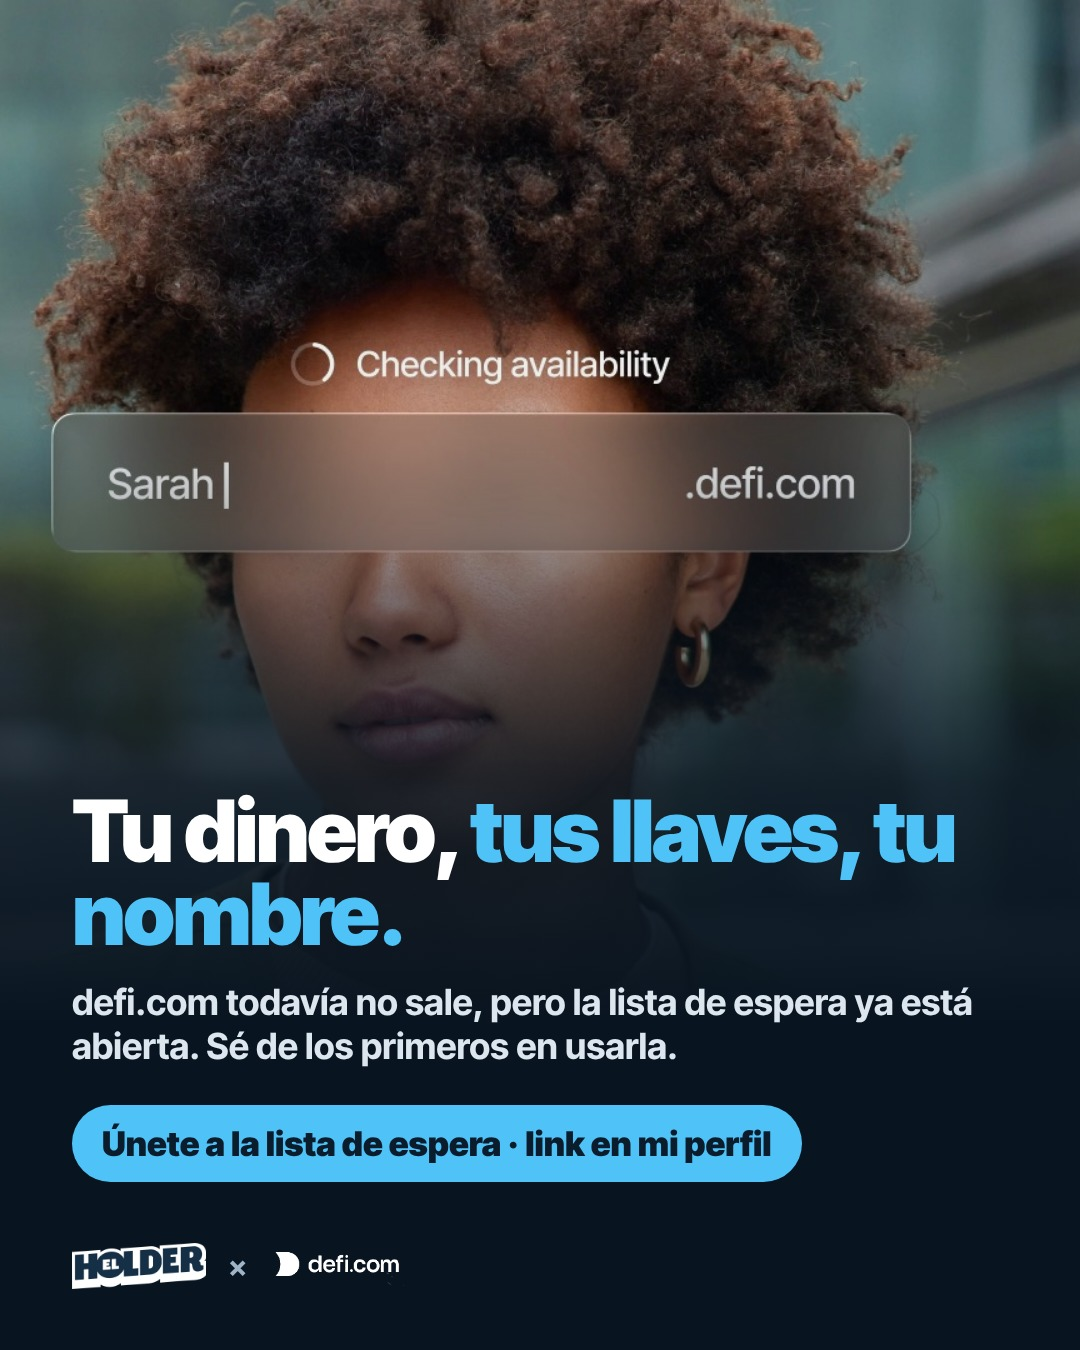
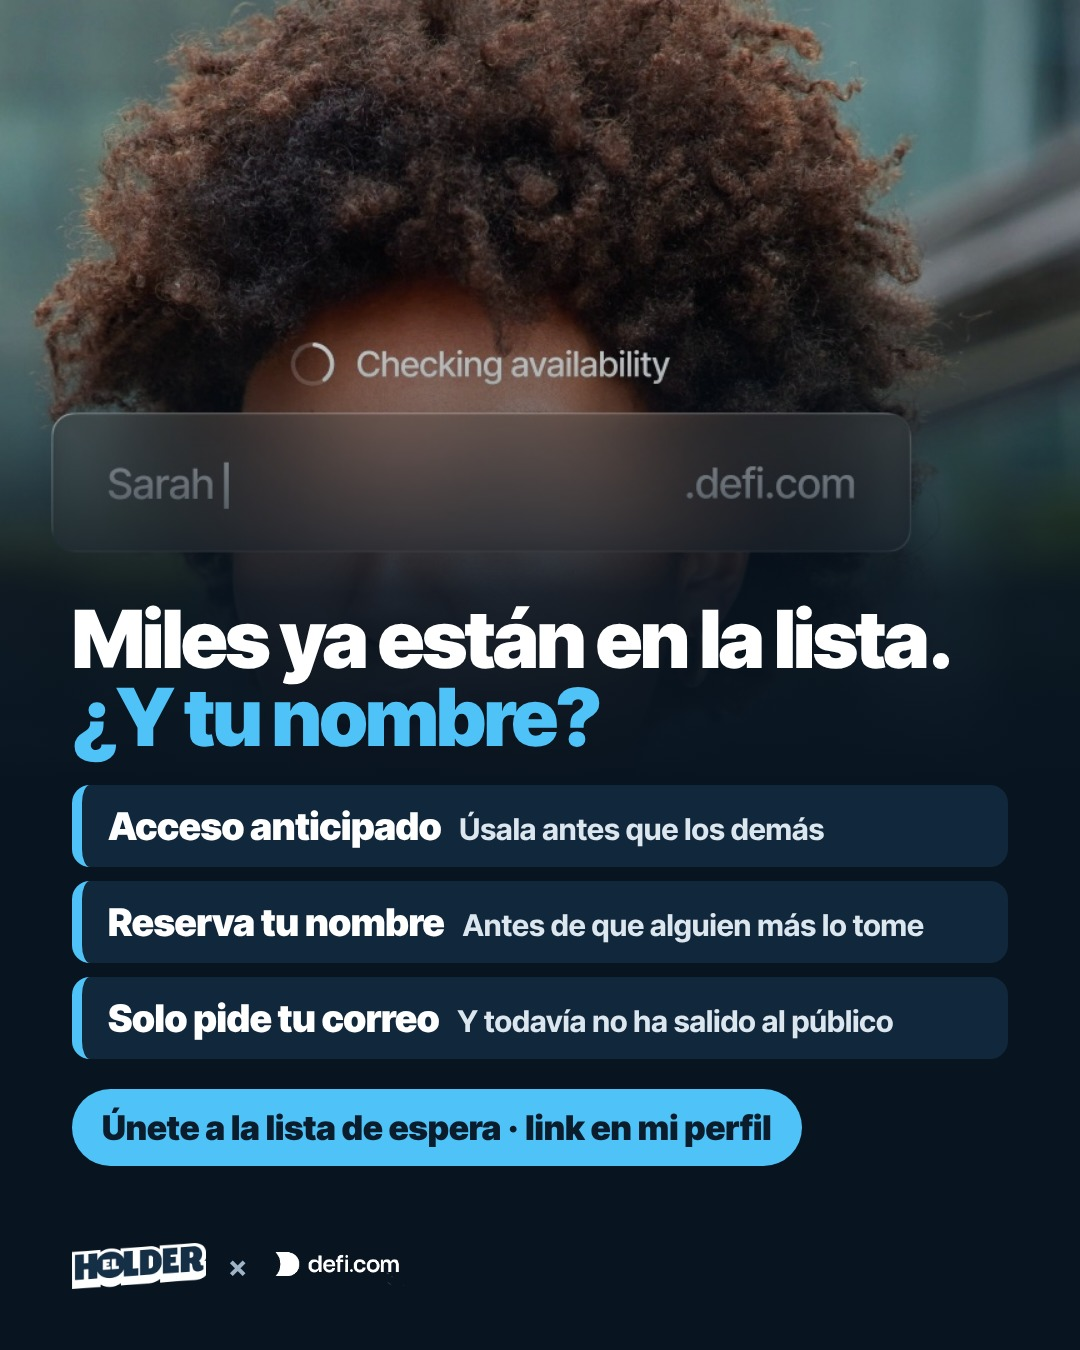
Carrusel defi.com v2: cierre con beneficios de la lista de espera
Claude-Session: https://claude.ai/code/session_011HtJt2a4sBpoKNENnst7wy

diff --git a/carruseles/2026-11-18-defi-waitlist-v2/src/slide.html b/carruseles/2026-11-18-defi-waitlist-v2/src/slide.html
@@ -83,6 +83,14 @@ li small{display:block;font-weight:700;font-size:28px;color:#B9CADA;margin-top:6
 #t3 h1{font-size:76px}
 .was{margin-top:36px;font-family:ui-monospace,'DejaVu Sans Mono',monospace;font-weight:700;font-size:30px;color:#8FA3B5;text-decoration:line-through;text-decoration-color:#FF5A63;text-decoration-thickness:4px}
 #id{margin-top:18px}
+#t5{top:600px}
+#t5 h1{font-size:80px}
+#s5 .ov{background:linear-gradient(180deg,rgba(8,20,32,.15) 0%,rgba(8,20,32,.1) 22%,rgba(8,20,32,.9) 44%,#081420 58%)}
+.bn{margin-top:30px;display:flex;flex-direction:column;gap:14px}
+.bn div{background:rgba(18,41,63,.92);border-left:10px solid #4FC3F7;border-radius:18px;padding:18px 26px;display:flex;align-items:baseline;gap:18px;flex-wrap:wrap}
+.bn b{font-weight:900;font-size:38px;letter-spacing:-.01em}
+.bn span{font-weight:700;font-size:30px;color:#DCE6EF}
+#t5 .cue{margin-top:30px}
 </style></head><body>
 <div class="s" id="s1"><div class="bg"></div><div class="ov"></div>
  <div id="alert"><div class="ic">!</div><div><b>Tu cuenta fue bloqueada</b><span>Retiros suspendidos hasta nuevo aviso</span></div></div>
@@ -115,13 +123,17 @@ li small{display:block;font-weight:700;font-size:28px;color:#B9CADA;margin-top:6
  <ul>
   <li>Fácil de compartir<small>Un nombre que se lee, en vez de 42 caracteres</small></li>
   <li>Una sola identidad<small>El mismo nombre para tus distintas cuentas</small></li>
-  <li>Único y tuyo<small>Tú eliges tu nombre al registrarte</small></li>
+  <li>Resérvalo desde hoy<small>Aparta tu nombre en la lista de espera</small></li>
  </ul></div>
 </div>
 
 <div class="s" id="s5"><div class="bg"></div><div class="ov"></div>
- <div id="t5"><h1>Tu dinero, <span class="a">tus llaves, tu nombre.</span></h1>
- <p>defi.com todavía no sale, pero la lista de espera ya está abierta. Sé de los primeros en usarla.</p>
+ <div id="t5"><h1>Miles ya están en la lista. <span class="a">¿Y tu nombre?</span></h1>
+ <div class="bn">
+  <div><b>Acceso anticipado</b><span>Úsala antes que los demás</span></div>
+  <div><b>Reserva tu nombre</b><span>Antes de que alguien más lo tome</span></div>
+  <div><b>Solo pide tu correo</b><span>Y todavía no ha salido al público</span></div>
+ </div>
  <div class="cue">Únete a la lista de espera · link en mi perfil</div></div>
 </div>
 
